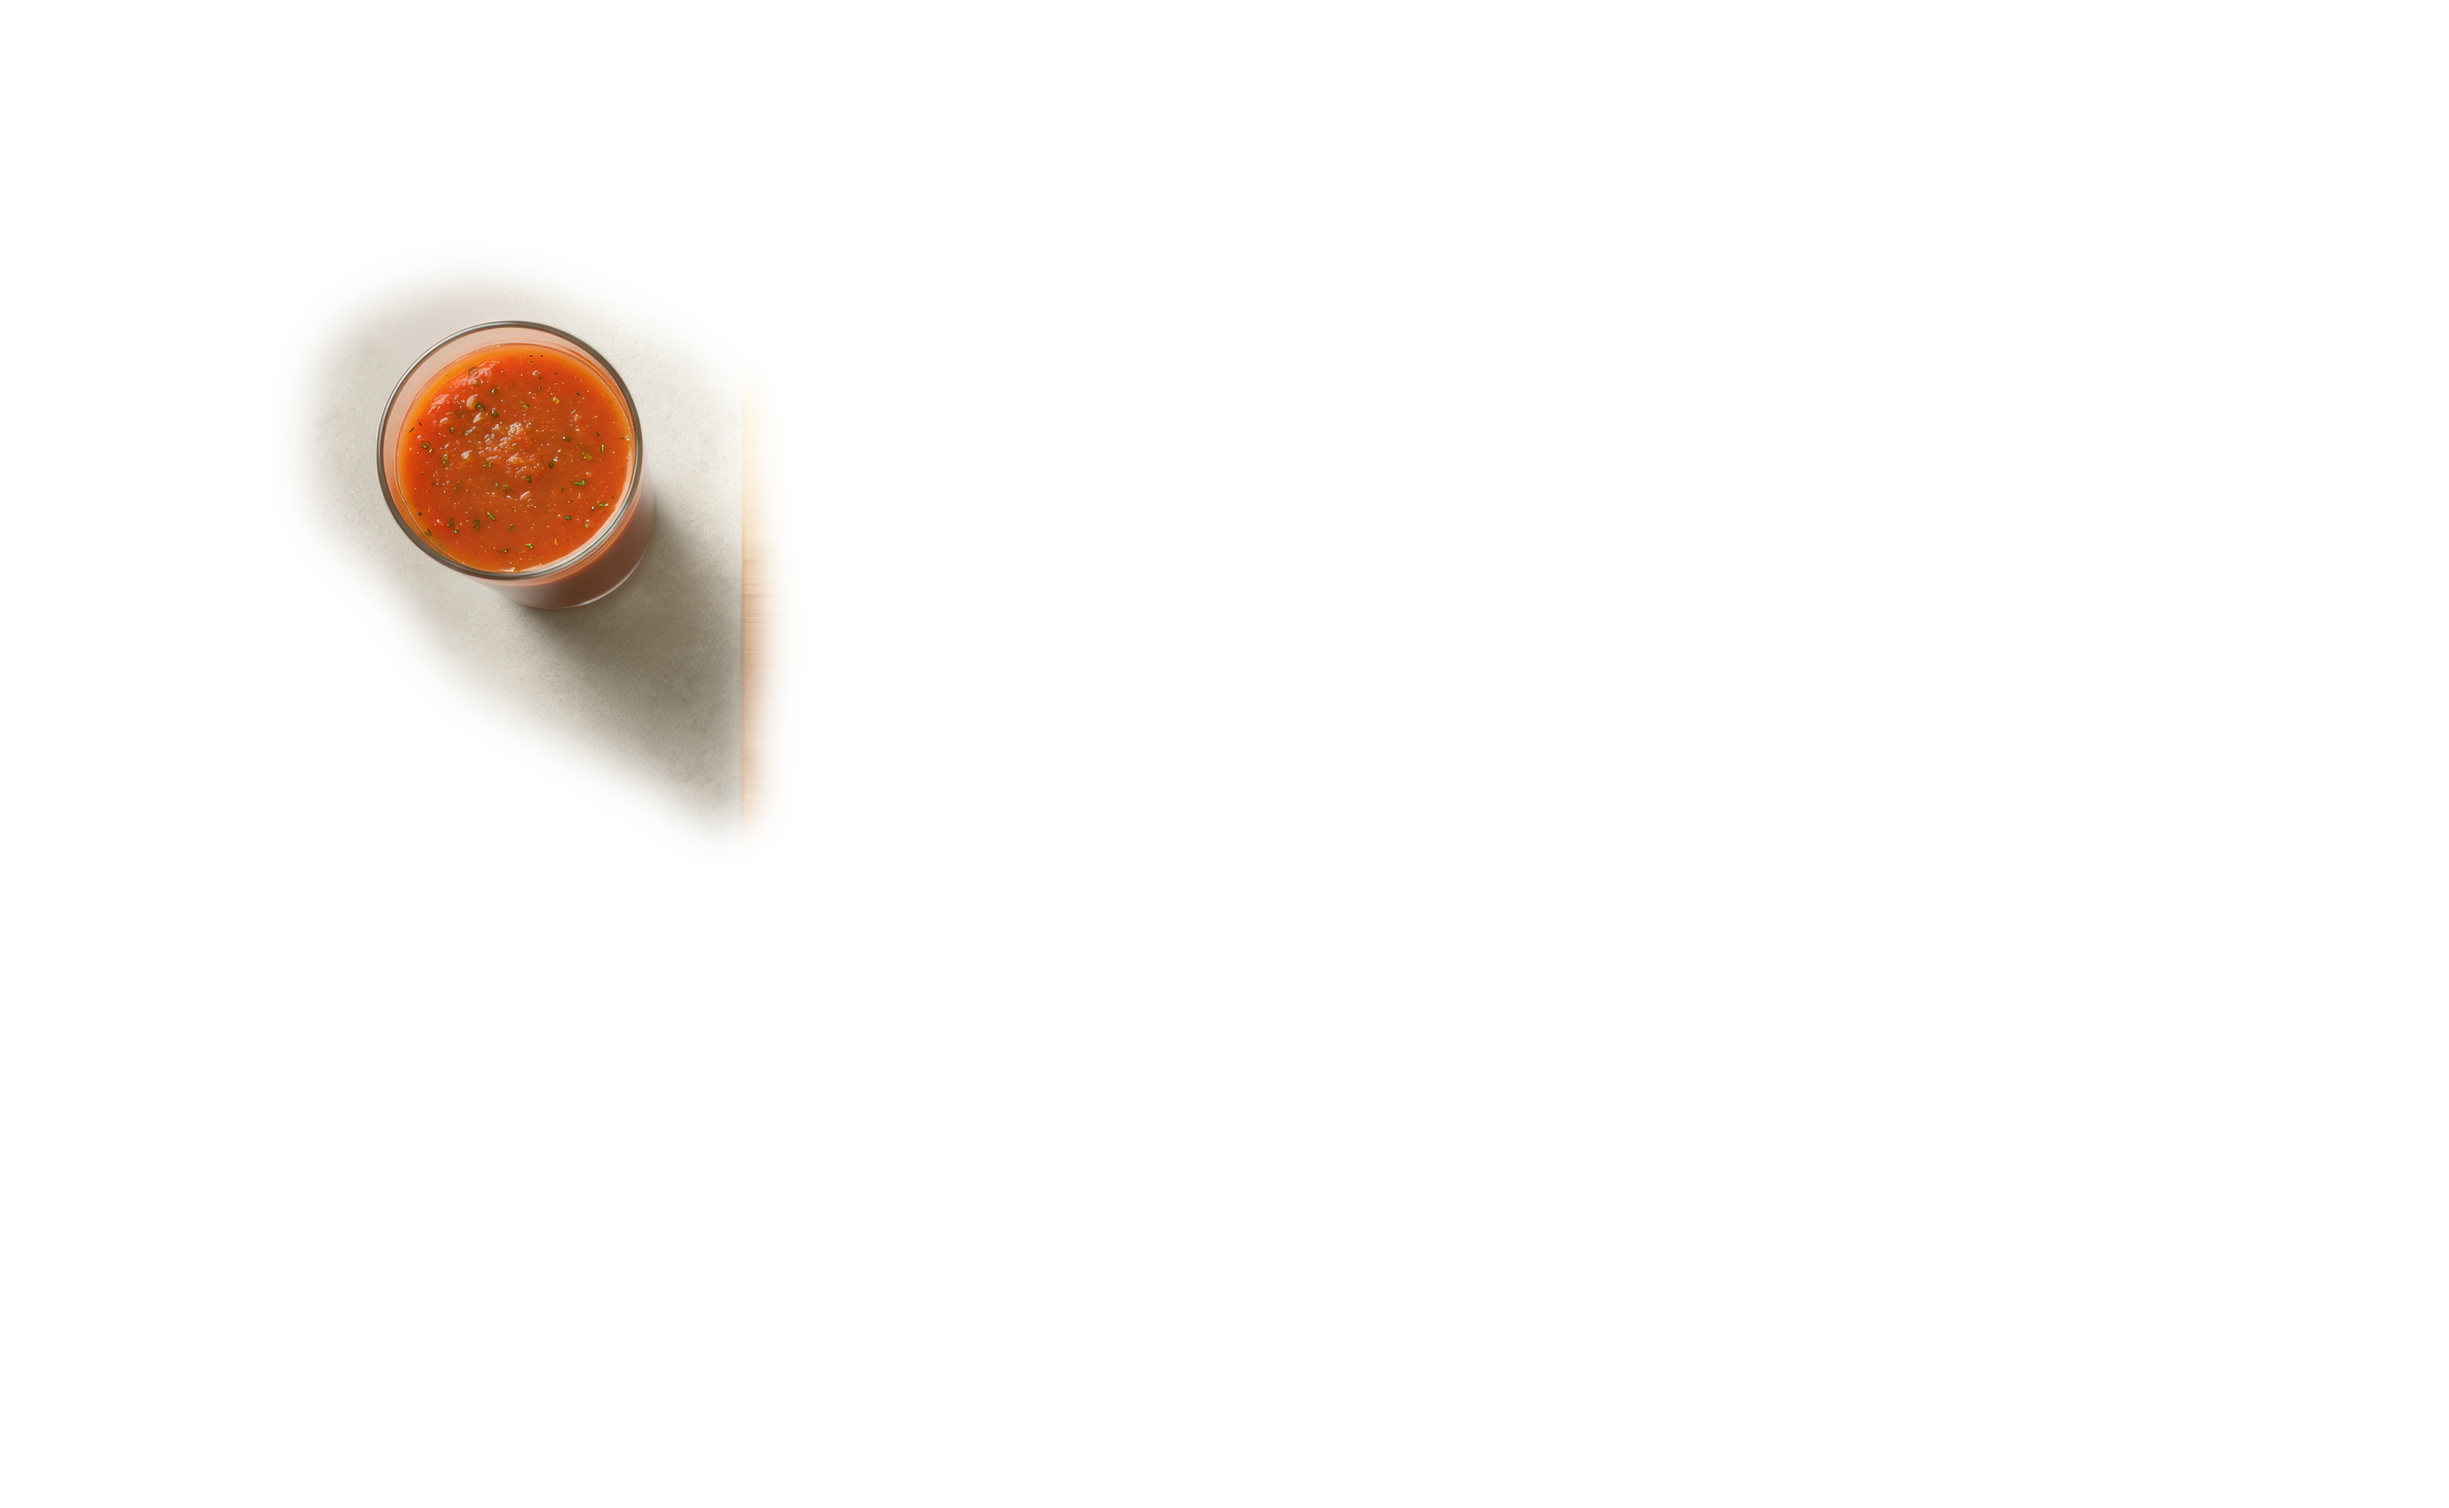
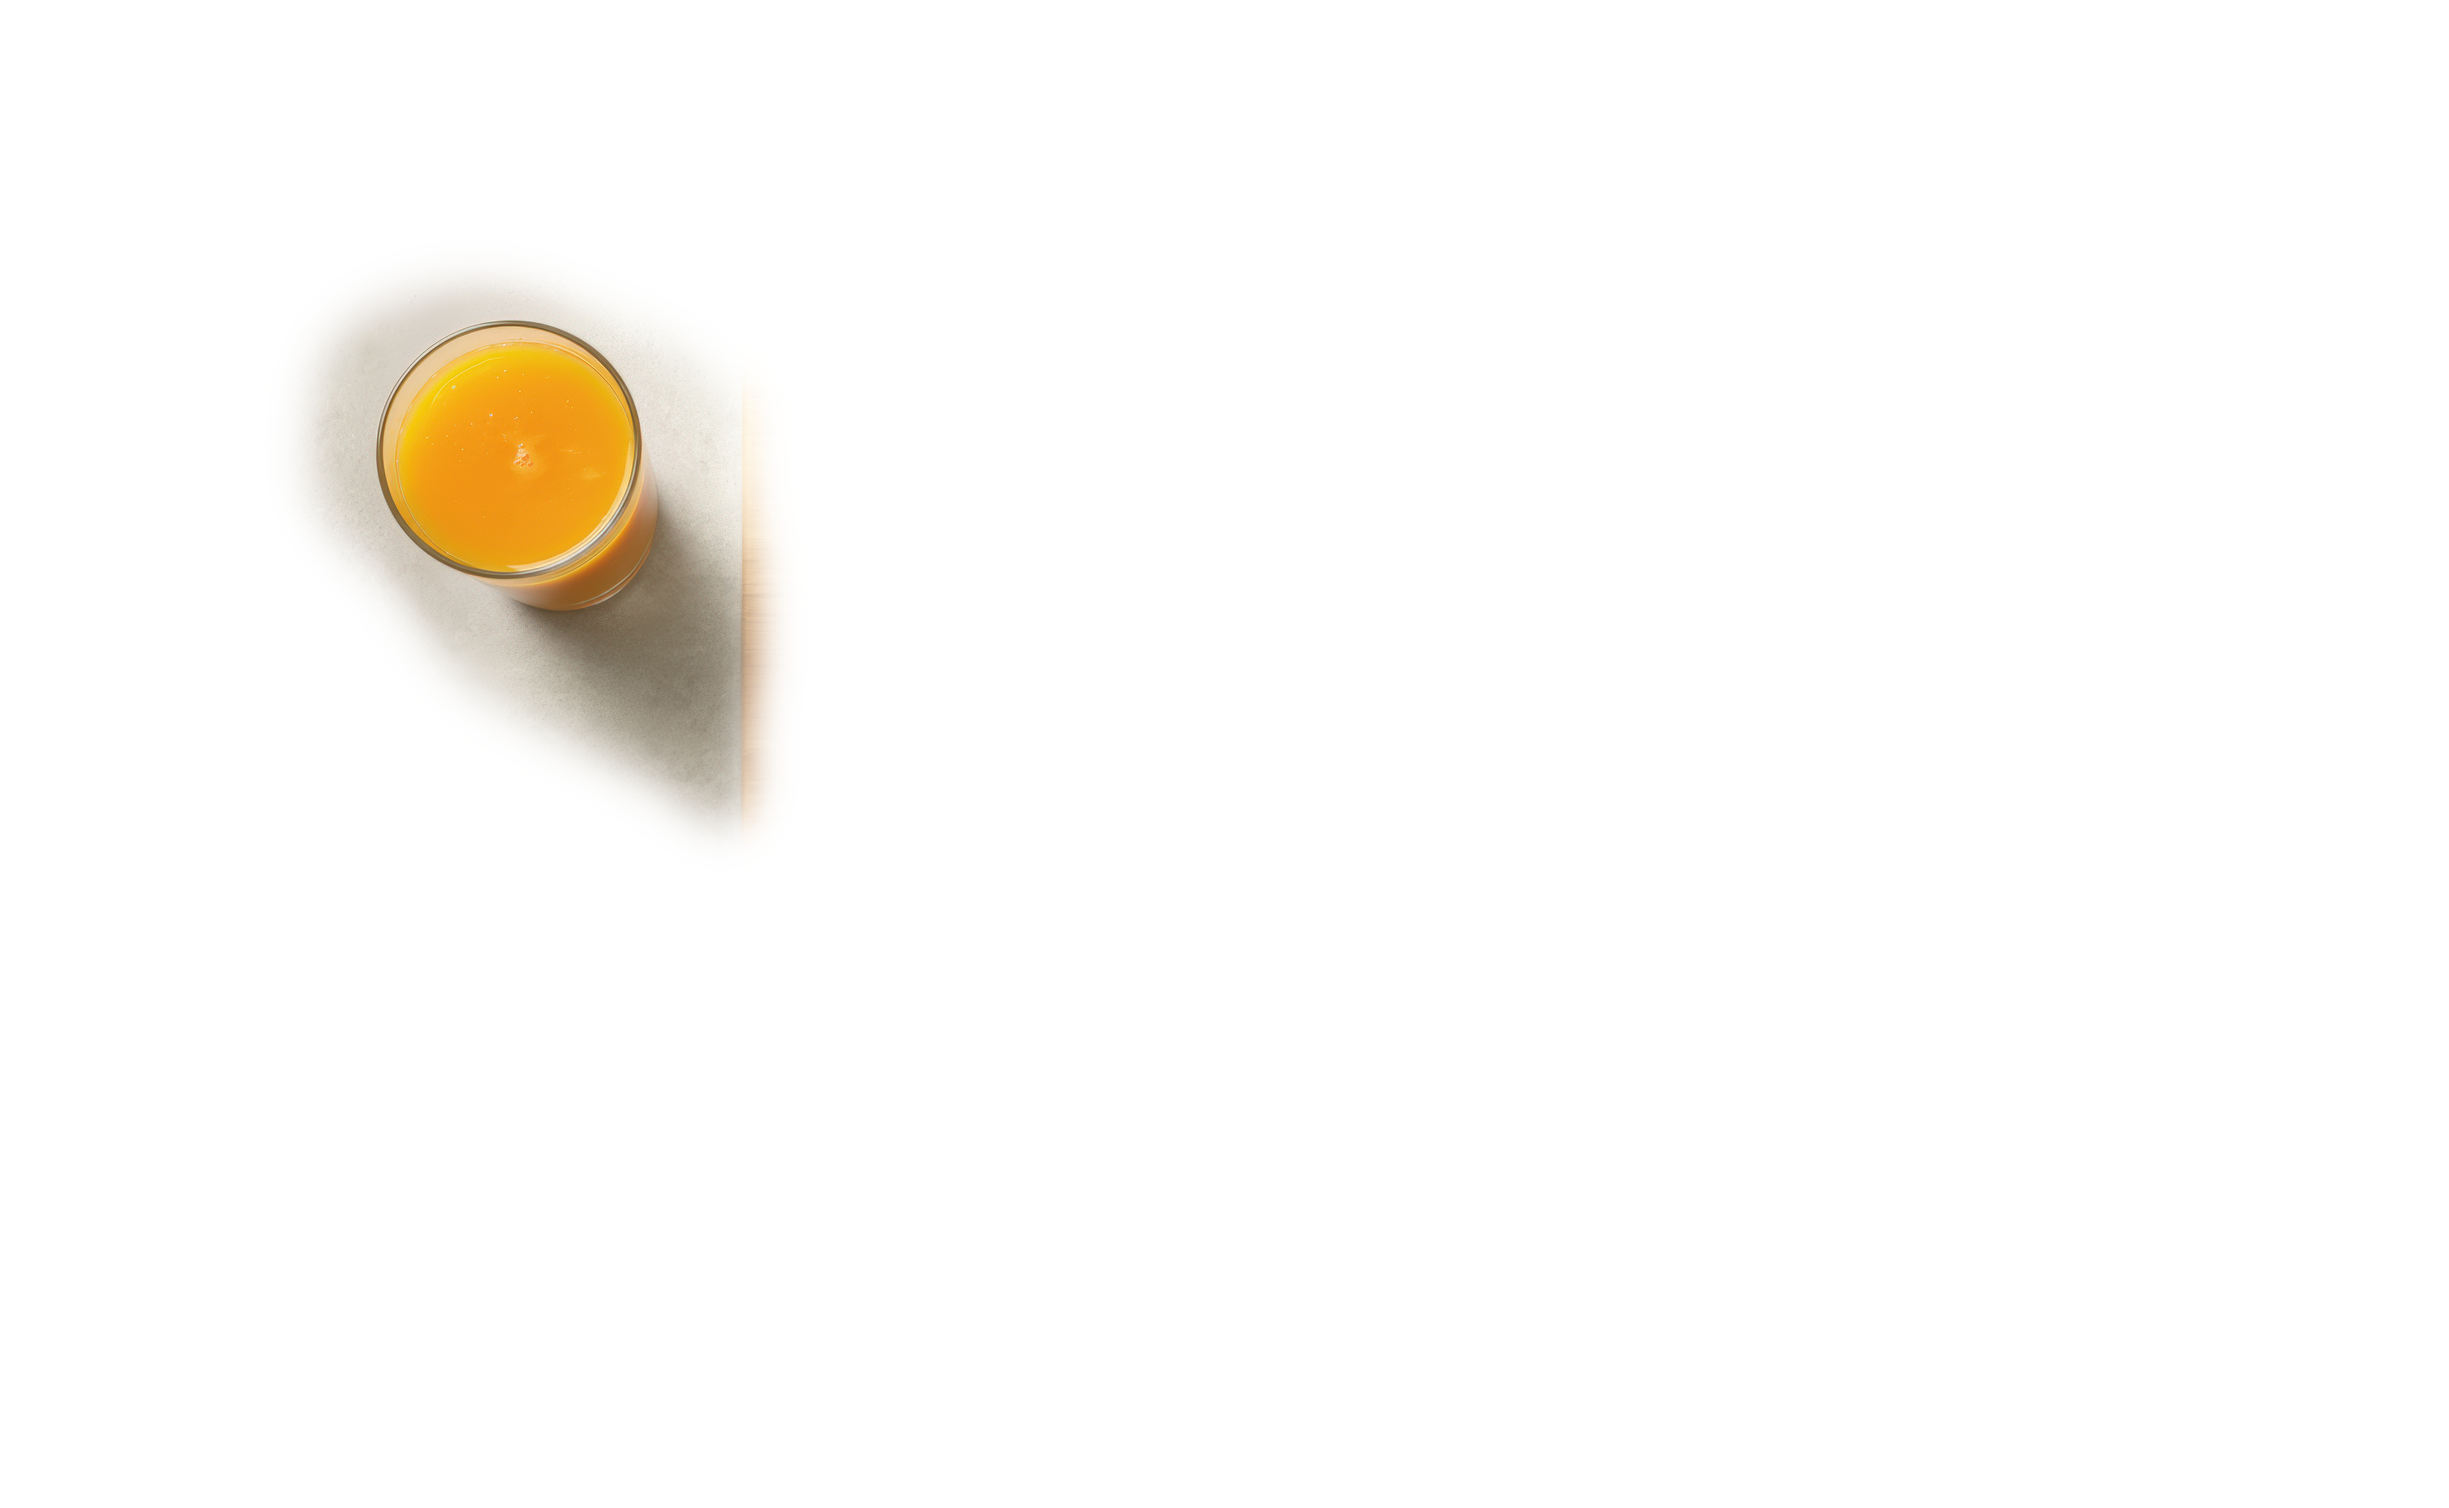
расставил все слоты по местам, доделал мелочи по слайдеру

Changed region(s): [[0.1562, 0.2169, 0.2812, 0.4028]]

diff --git a/src/components/dash/InteractivePlate.vue b/src/components/dash/InteractivePlate.vue
@@ -169,25 +169,28 @@ const slotPositions = {
   2: { top: 29.5, left: 54.5, width: "375px" },
   3: { top: 44.9, left: 54.5, width: "360px" },
   4: { top: 45.2, left: 45.4, width: "380px" },
-
   5: { top: 49, left: 60.4, width: "344px" },
   6: { top: 39.3, left: 38.6, width: "222px", zIndex: 2 },
+  7: { top: 12.4, left: 35.4, width: "390px", zIndex: 3 },
   8: { top: 39.4, left: 62, width: "282px" },
+  9: { top: 30, left: 64.1, width: "13%", zIndex: 5 },
   10: { top: 28, left: 39.6, width: "379px" },
   11: { top: 49.4, left: 72.5, width: "575px", zIndex: 2 },
   12: { top: 50.5, left: 30.5, width: "340px", zIndex: 4 },
   13: { top: 28.5, left: 73.4, width: "16%" },
-  14: { top: 37, left: 50, width: "68.7%", zIndex: "initial", info: { top: 22, left: 25 } },
+  14: {
+    top: 37,
+    left: 50,
+    width: "68.7%",
+    zIndex: "initial",
+    info: { top: 22, left: 25 },
+  },
   15: { top: 14.2, left: 52.8, width: "27%" },
   16: { top: 40.4, left: 32.5, width: "260px", zIndex: 3 },
   17: { top: 39.5, left: 26, width: "295px", zIndex: 5 },
   18: { top: 39, left: 20, width: "251px" },
   19: { top: 50.4, left: 23.5, width: "285px", zIndex: 5 },
-  9: { top: 30, left: 63.4, width: "13%", zIndex: 5 },
 
-  
-
-  7: { top: 60.4, left: 55.4 },
 };
 
 function slotStyle(slotId) {
@@ -1405,12 +1408,24 @@ onMounted(() => store.commit("diet/INIT_DAY", 1));
   mask-composite: exclude;
 }
 
+.custom-arrow::after {
+  position: absolute;
+  content: ">";
+  color: #fff;
+  left: 50%;
+  top: 50%;
+  transform: translate(-50%, -50%);
+  font-size: 25px;
+  z-index: 1;
+}
+
 .custom-prev {
   left: 0;
+  top: 20%;
+  transform: scaleX(-1) translateY(50%);
 }
 .custom-next {
   right: 0;
-  transform: scale(1, -1) translateY(50%);
 }
 
 .info {

diff --git a/src/store/modules/diet.js b/src/store/modules/diet.js
@@ -548,9 +548,9 @@ export default {
             oldname: "Ягоды/ломтики (1/2 стакана)",
             alteration: true,
             preview: "/products/subcat/subcat-8-3.png",
-            allowedSlots: [16],
+            allowedSlots: [7],
             images: {
-              16: "/products/yagodi_1.png",
+              7: "/products/yagodi_1.png",
             },
           },
         ],
@@ -615,8 +615,8 @@ export default {
             preview: "/products/subcat/subcat-9-5.png",
             allowedSlots: [14, 9],
             images: {
-              9: "/products/moloko2_right.png",
-              14: "/products/moloko1_left.png",
+              9: "/products/sok2_right.png",
+              14: "/products/sok2_left.png",
             },
           },
           {
@@ -627,8 +627,8 @@ export default {
             preview: "/products/subcat/subcat-9-6.png",
             allowedSlots: [9, 14],
             images: {
-              9: "/products/moloko2_right.png",
-              14: "/products/moloko1_left.png",
+              9: "/products/sok1_right.png",
+              14: "/products/sok1_left.png",
             },
           },
           {
@@ -639,8 +639,8 @@ export default {
             preview: "/products/subcat/subcat-9-7.png",
             allowedSlots: [9, 14],
             images: {
-              9: "/products/moloko2_right.png",
-              14: "/products/moloko1_left.png",
+              9: "/products/sok3_right.png",
+              14: "/products/sok3_left.png",
             },
           },
         ],
